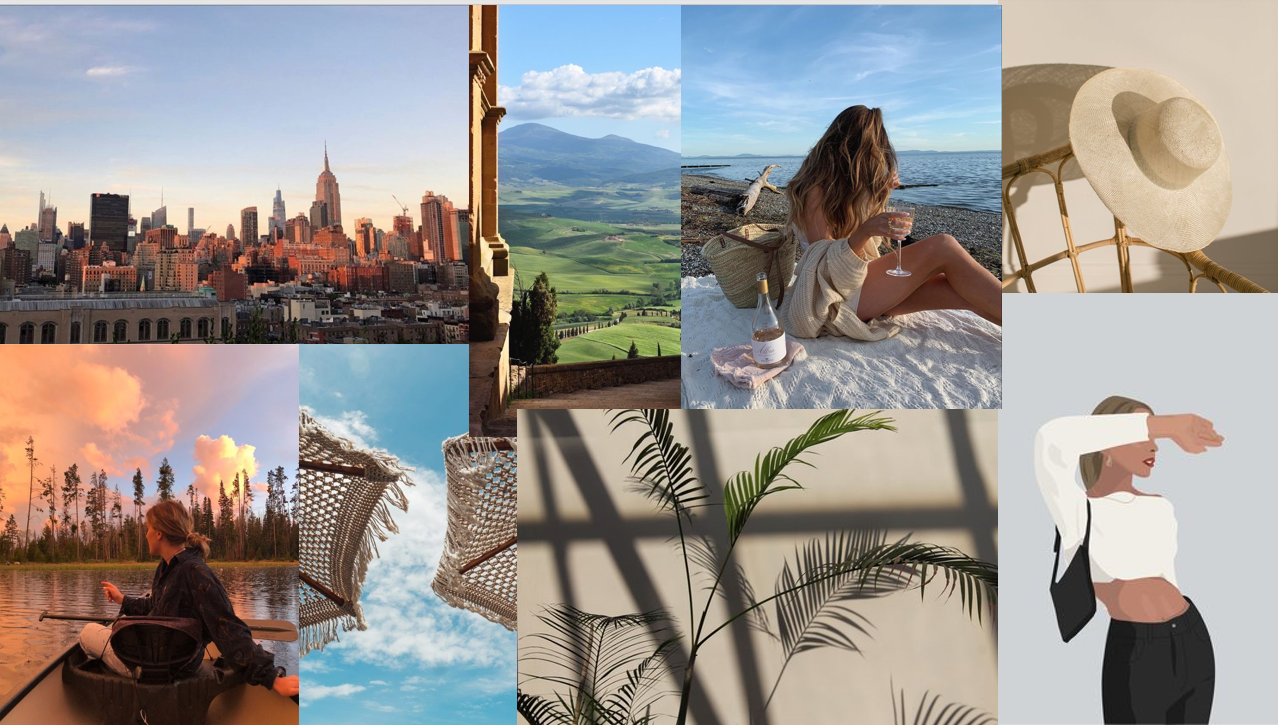
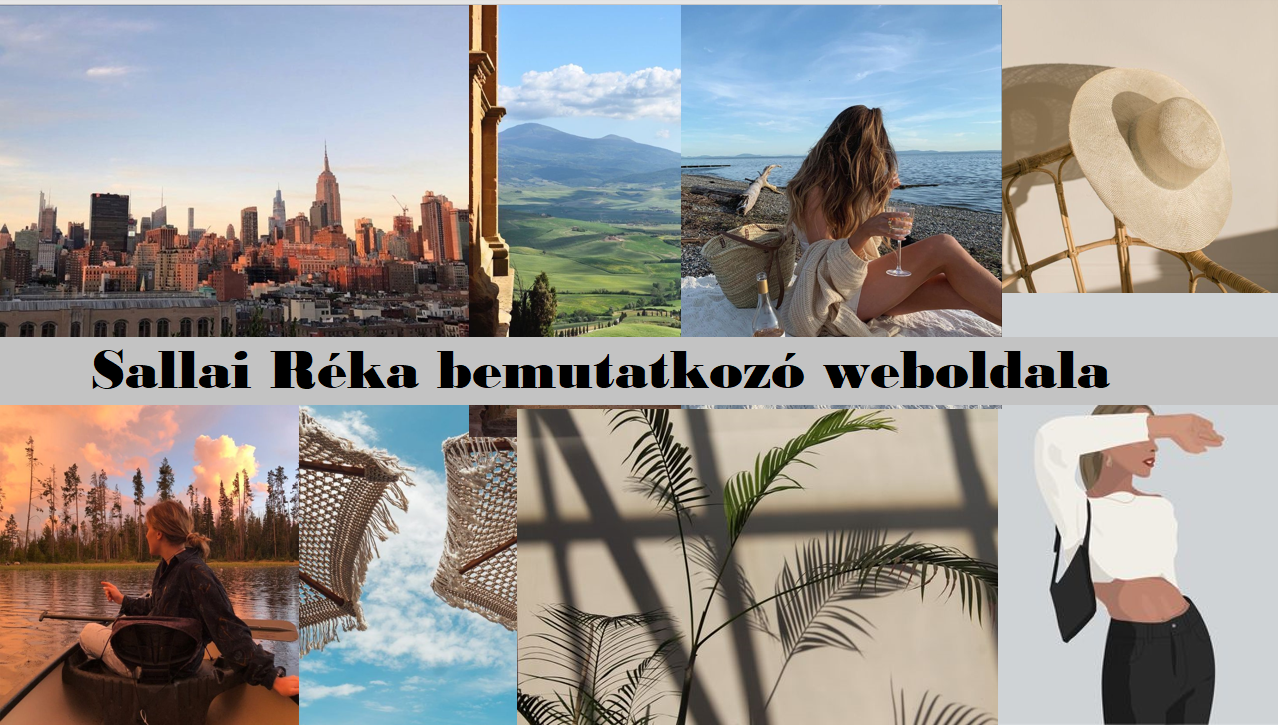
commit all

Changed region(s): [[0.0, 0.4552, 0.885, 0.5766]]

diff --git a/HajósTeszt/wwwroot/cv.html b/HajósTeszt/wwwroot/cv.html
@@ -7,10 +7,8 @@
 </head>
 <body>
     <div id="tarto">
-        <h1> Sallai Réka bemutatkozó weboldal</h1>
+        <h1><img src="bck.png" alt="Sallai Réka bemutatkozó weboldal" width="1000" height="350" /></h1>
         <hr height="5" color="black">
-
-        <img src="reka.jpg" alt="Kép rólam." width="120" height="180">
         <p>
             <h2>Alapadatok:</h2>
             <ul>
@@ -44,12 +42,16 @@
             </ul>
         </p>
         <p>
-            <h2>Néhány kedvencem:</h2>
+            <h2>Hol találsz meg:</h2>
             <ul>
-                <il> <a href="https://www.youtube.com/watch?v=ahgAK9fKEiM">Kedvenc zeném:</a></il><br>
-                <il>Kedvenc ételem: bármilyen fagylalt</il>
+                <il> <a href="https://www.instagram.com/srekaa/?hl=hu">Instagram</a></il>
+                <br>
+                <il><a href="https://www.facebook.com/reka.sallai.3">Facebook</a></il>
             </ul>
         </p>
+
+        <img src="reka.jpg" alt="Kép rólam." width="120" height="180">
+
     </div>
 </body>
 </html>

diff --git a/HajósTeszt/wwwroot/cv.css b/HajósTeszt/wwwroot/cv.css
@@ -9,12 +9,11 @@
 h1 {
     text-align: center;
     font-style: italic;
-    background-image: url(bck.png);
 }
 
 a {
-    padding: 10px;
-    border-radius: 25px;
+    padding: 2px;
+    border-radius: 10px;
     background-color: lightgrey;
     color: black;
 }
